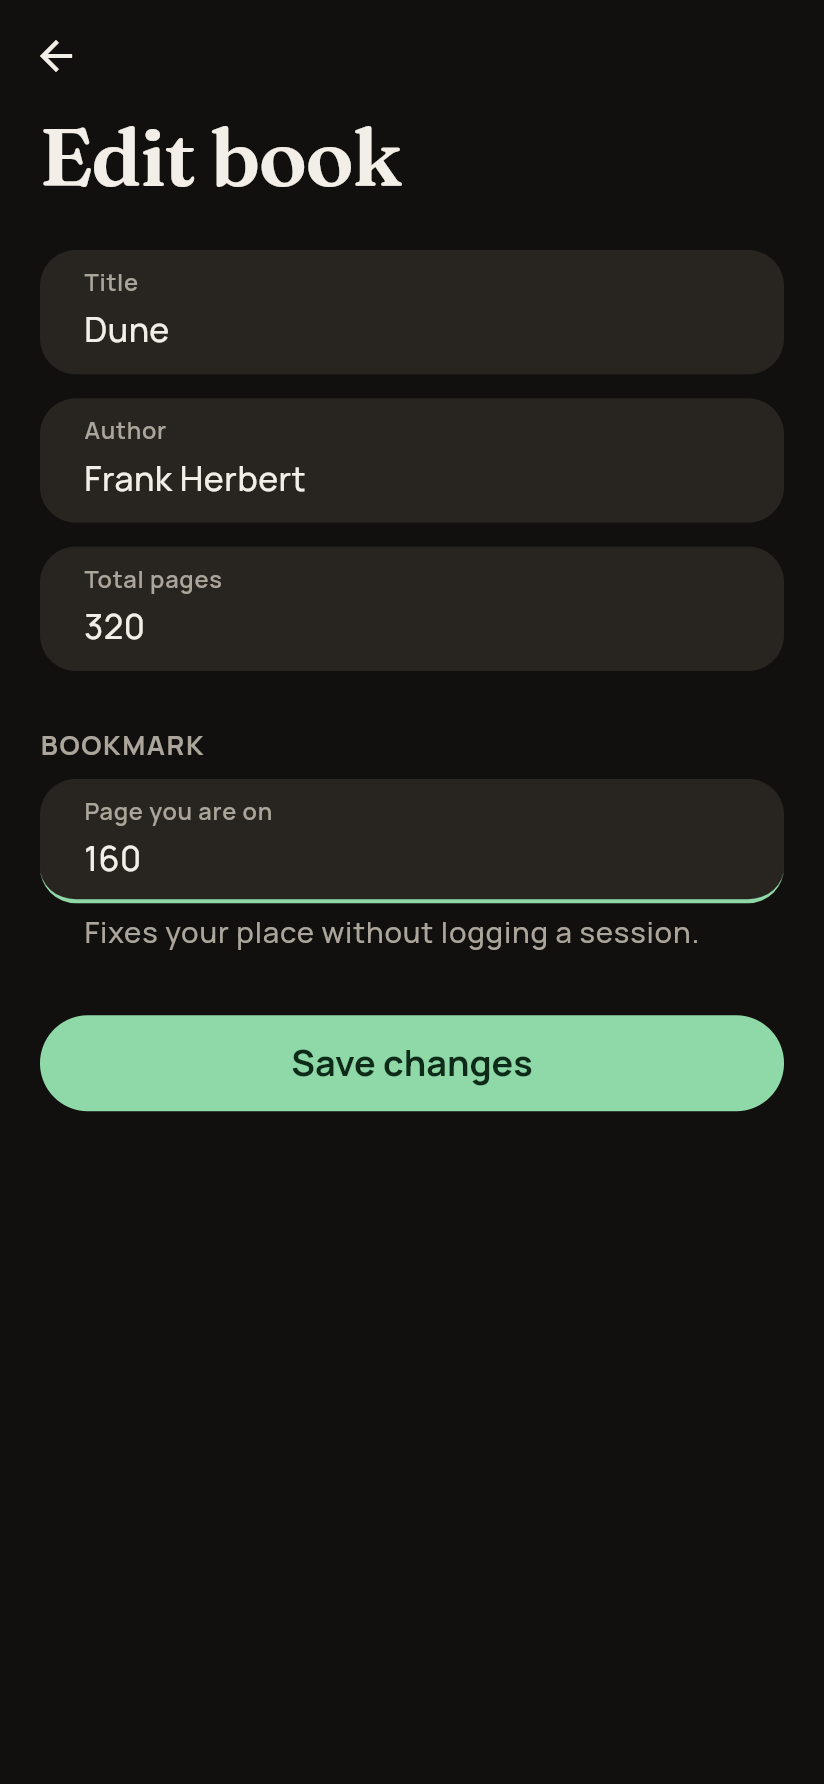
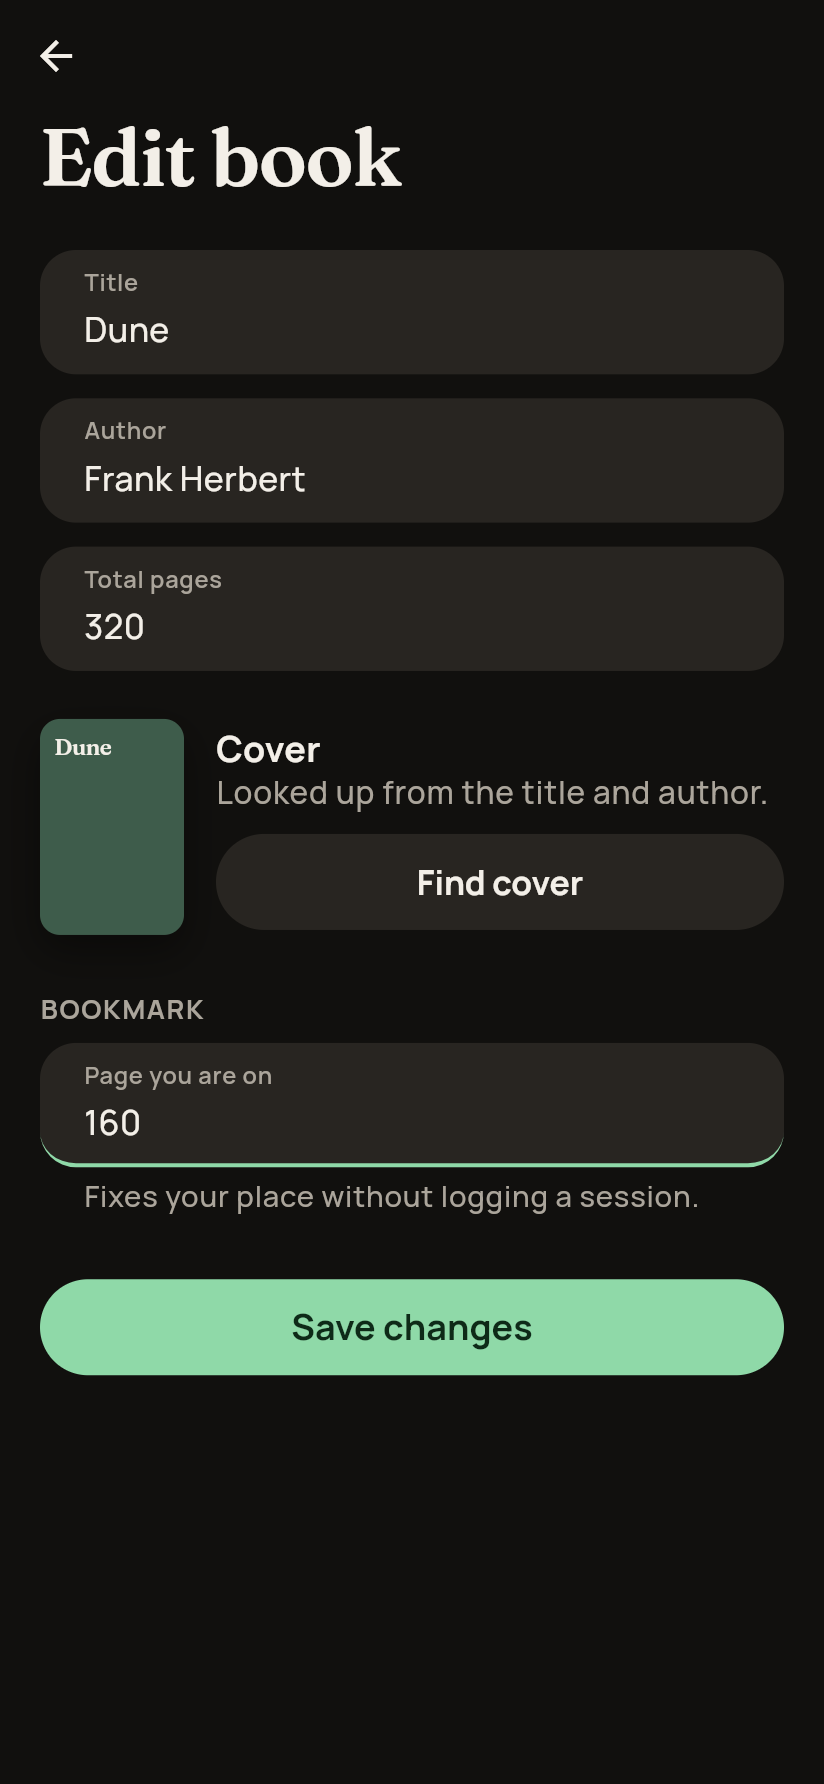
feat: implement cover lookup service and integrate with book editing screens

diff --git a/lib/screens/edit_book.dart b/lib/screens/edit_book.dart
@@ -1,8 +1,10 @@
 import 'package:flutter/material.dart';
 import 'package:lumina/models/books.dart';
+import 'package:lumina/services/cover_services.dart';
 import 'package:lumina/services/database_services.dart';
 import 'package:lumina/services/home_widget_service.dart';
 import 'package:lumina/theme.dart';
+import 'package:lumina/widgets/book_cover.dart';
 import 'package:lumina/widgets/section_header.dart';
 
 class EditBook extends StatefulWidget {
@@ -22,6 +24,8 @@ class _EditBookState extends State<EditBook> {
   final TextEditingController _pagesController = TextEditingController();
   final TextEditingController _bookmarkController = TextEditingController();
   bool _loaded = false;
+  String _coverUrl = '';
+  bool _isFetchingCover = false;
 
   TextStyle? get _fieldTextStyle => Theme.of(context).textTheme.bodyMedium
       ?.copyWith(color: LuminaColors.white, fontWeight: FontWeight.w500);
@@ -43,8 +47,45 @@ class _EditBookState extends State<EditBook> {
       _authorController.text = book.author;
       _pagesController.text = '${book.totalPages}';
       _bookmarkController.text = '$page';
+      _coverUrl = book.coverUrl;
       _loaded = true;
     });
+  }
+
+  Future<void> _findCover() async {
+    if (_isFetchingCover) {
+      return;
+    }
+    setState(() {
+      _isFetchingCover = true;
+    });
+    String? message;
+    try {
+      final String? cover = await CoverServices.instance.findCover(
+        _titleController.text,
+        _authorController.text,
+      );
+      if (cover == null) {
+        message = 'No cover found for that title.';
+      } else if (mounted) {
+        setState(() {
+          _coverUrl = cover;
+        });
+      }
+    } catch (error) {
+      message = 'Could not reach the cover service. Check your connection.';
+    }
+    if (!mounted) {
+      return;
+    }
+    setState(() {
+      _isFetchingCover = false;
+    });
+    if (message != null) {
+      ScaffoldMessenger.of(
+        context,
+      ).showSnackBar(SnackBar(content: Text(message)));
+    }
   }
 
   Future<void> _save() async {
@@ -55,6 +96,7 @@ class _EditBookState extends State<EditBook> {
       'title': _titleController.text.trim(),
       'author': _authorController.text.trim(),
       'totalPages': int.parse(_pagesController.text.trim()),
+      'coverUrl': _coverUrl,
     });
     await _databaseServices.setBookmark(
       widget.id,
@@ -123,6 +165,38 @@ class _EditBookState extends State<EditBook> {
                             }
                             return null;
                           },
+                        ),
+                        const SizedBox(height: 24),
+                        Row(
+                          children: [
+                            BookCover(
+                              coverUrl: _coverUrl,
+                              title: _titleController.text,
+                              width: 72,
+                            ),
+                            const SizedBox(width: 16),
+                            Expanded(
+                              child: Column(
+                                crossAxisAlignment: CrossAxisAlignment.start,
+                                children: [
+                                  Text('Cover', style: textTheme.titleMedium),
+                                  Text(
+                                    'Looked up from the title and author.',
+                                    style: textTheme.bodySmall,
+                                  ),
+                                  const SizedBox(height: 10),
+                                  OutlinedButton(
+                                    onPressed: _findCover,
+                                    child: Text(
+                                      _isFetchingCover
+                                          ? 'Finding cover...'
+                                          : 'Find cover',
+                                    ),
+                                  ),
+                                ],
+                              ),
+                            ),
+                          ],
                         ),
                         const SizedBox(height: 28),
                         const SectionHeader(label: 'Bookmark'),

diff --git a/lib/screens/add_books.dart b/lib/screens/add_books.dart
@@ -2,7 +2,7 @@ import 'package:flutter/material.dart';
 import 'package:go_router/go_router.dart';
 import 'package:lumina/services/database_services.dart';
 import 'package:lumina/theme.dart';
-import 'package:dio/dio.dart';
+import 'package:lumina/services/cover_services.dart';
 
 class Addbooks extends StatefulWidget {
   const Addbooks({super.key});
@@ -12,7 +12,6 @@ class Addbooks extends StatefulWidget {
 }
 
 class _AddbooksState extends State<Addbooks> {
-  final dio = Dio();
   final _formKey = GlobalKey<FormState>();
   final DatabaseServices _databaseServices = DatabaseServices.instance;
   final TextEditingController _titleController = TextEditingController();
@@ -28,58 +27,49 @@ class _AddbooksState extends State<Addbooks> {
     if (_isFetchingCover) {
       return;
     }
-    if (mounted) {
-      WidgetsBinding.instance.addPostFrameCallback((_) {
-        if (!mounted) {
-          return;
-        }
-        setState(() {
-          _isFetchingCover = true;
-        });
-      });
+    if (_titleController.text.trim().isEmpty) {
+      _showMessage('Type the title first.');
+      return;
     }
+    setState(() {
+      _isFetchingCover = true;
+    });
     try {
-      debugPrint('fetchCover called');
-      final response = await dio.get(
-        'https://bookcover.longitood.com/bookcover',
-        queryParameters: {
-          'book_title': _titleController.text.trim(),
-          'author_name': _authorController.text.trim(),
-          'size': 'large',
-        },
+      final String? cover = await CoverServices.instance.findCover(
+        _titleController.text,
+        _authorController.text,
       );
-      debugPrint('status: ${response.statusCode}');
-      debugPrint('data: ${response.data}');
-      if (response.data['url'] != null) {
-        if (mounted) {
-          WidgetsBinding.instance.addPostFrameCallback((_) {
-            if (mounted) {
-              setState(() {
-                _coverUrl = response.data['url'].toString();
-              });
-            }
-          });
-        }
-      } else {
-        debugPrint('Cover URL not found in response');
+      if (!mounted) {
+        return;
       }
-    } on DioException catch (e) {
-      debugPrint('Dio error: ${e.message}');
-      debugPrint('response: ${e.response?.statusCode} ${e.response?.data}');
+      if (cover == null) {
+        _showMessage(
+          'No cover found for that title. The book will get a coloured cover.',
+        );
+      } else {
+        setState(() {
+          _coverUrl = cover;
+        });
+      }
     } catch (e) {
-      debugPrint('Unexpected error: $e');
+      debugPrint('Cover lookup failed: $e');
+      _showMessage('Could not reach the cover service. Check your connection.');
     } finally {
       if (mounted) {
-        WidgetsBinding.instance.addPostFrameCallback((_) {
-          if (!mounted) {
-            return;
-          }
-          setState(() {
-            _isFetchingCover = false;
-          });
+        setState(() {
+          _isFetchingCover = false;
         });
       }
     }
+  }
+
+  void _showMessage(String message) {
+    if (!mounted) {
+      return;
+    }
+    ScaffoldMessenger.of(
+      context,
+    ).showSnackBar(SnackBar(content: Text(message)));
   }
 
   @override
@@ -87,7 +77,6 @@ class _AddbooksState extends State<Addbooks> {
     _titleController.dispose();
     _authorController.dispose();
     _pagesController.dispose();
-    dio.close();
     super.dispose();
   }
 

diff --git a/lib/services/cover_services.dart b/lib/services/cover_services.dart
@@ -1,0 +1,65 @@
+import 'package:dio/dio.dart';
+
+// Looks up a book's cover on Open Library (openlibrary.org), which is free
+// and needs no account.
+class CoverServices {
+  static final CoverServices instance = CoverServices._constructor();
+
+  CoverServices._constructor();
+
+  final Dio _dio = Dio(
+    BaseOptions(
+      connectTimeout: const Duration(seconds: 10),
+      receiveTimeout: const Duration(seconds: 15),
+    ),
+  );
+
+  // Returns the cover's address, or null when no edition has one.
+  Future<String?> findCover(String title, String author) async {
+    for (final String variant in titleVariants(title)) {
+      for (final String? byAuthor in <String?>[author.trim(), null]) {
+        if (byAuthor != null && byAuthor.isEmpty) {
+          continue;
+        }
+        final Response<dynamic> response = await _dio.get<dynamic>(
+          'https://openlibrary.org/search.json',
+          queryParameters: <String, dynamic>{
+            'title': variant,
+            'author': ?byAuthor,
+            'fields': 'cover_i',
+            'limit': 5,
+          },
+        );
+        final String? cover = coverFromSearch(response.data);
+        if (cover != null) {
+          return cover;
+        }
+      }
+    }
+    return null;
+  }
+
+  // The full title first, then without its subtitle, which catalogues often
+  // leave out ("Ancient Philosophy: A New History..." -> "Ancient Philosophy").
+  static List<String> titleVariants(String title) {
+    final String full = title.trim();
+    final String short = full.split(RegExp(r'[:(\-–—]')).first.trim();
+    return <String>[
+      if (full.isNotEmpty) full,
+      if (short.isNotEmpty && short != full) short,
+    ];
+  }
+
+  // The first result that has a cover image.
+  static String? coverFromSearch(dynamic data) {
+    if (data is! Map || data['docs'] is! List) {
+      return null;
+    }
+    for (final dynamic doc in data['docs'] as List<dynamic>) {
+      if (doc is Map && doc['cover_i'] is int) {
+        return 'https://covers.openlibrary.org/b/id/${doc['cover_i']}-L.jpg';
+      }
+    }
+    return null;
+  }
+}

diff --git a/test/habit_services_test.dart b/test/habit_services_test.dart
@@ -3,6 +3,7 @@ import 'dart:io';
 import 'package:flutter_test/flutter_test.dart';
 import 'package:lumina/research.dart';
 import 'package:lumina/services/backup_services.dart';
+import 'package:lumina/services/cover_services.dart';
 import 'package:lumina/services/database_services.dart';
 import 'package:lumina/services/habit_services.dart';
 import 'package:lumina/services/home_widget_service.dart';
@@ -732,6 +733,36 @@ void main() {
         BackupServices.instance.fileName(now: DateTime(2026, 3, 5)),
         'lumina-backup-2026-03-05.json',
       );
+    });
+  });
+
+  group('covers', () {
+    test('a title is also tried without its subtitle', () {
+      expect(
+        CoverServices.titleVariants(
+          'Ancient Philosophy: A New History of Western Philosophy',
+        ),
+        [
+          'Ancient Philosophy: A New History of Western Philosophy',
+          'Ancient Philosophy',
+        ],
+      );
+      expect(CoverServices.titleVariants(' Dune '), ['Dune']);
+      expect(CoverServices.titleVariants(''), isEmpty);
+    });
+
+    test('the first search result with a cover is used', () {
+      expect(
+        CoverServices.coverFromSearch({
+          'docs': [
+            {'title': 'no cover on this edition'},
+            {'cover_i': 1136939},
+          ],
+        }),
+        'https://covers.openlibrary.org/b/id/1136939-L.jpg',
+      );
+      expect(CoverServices.coverFromSearch({'docs': []}), isNull);
+      expect(CoverServices.coverFromSearch('error code: 522'), isNull);
     });
   });
 

diff --git a/lib/screens/today.dart b/lib/screens/today.dart
@@ -356,7 +356,12 @@ class _BookCard extends StatelessWidget {
             const SizedBox(height: 16),
             Container(
               width: double.infinity,
-              padding: const EdgeInsets.fromLTRB(16, 8, 6, 16).copyWith(right: 16),
+              padding: const EdgeInsets.fromLTRB(
+                16,
+                8,
+                6,
+                16,
+              ).copyWith(right: 16),
               decoration: BoxDecoration(
                 color: LuminaColors.tint(LuminaColors.recall),
                 borderRadius: BorderRadius.circular(18),

diff --git a/integration_test/habit_flow_test.dart b/integration_test/habit_flow_test.dart
@@ -582,7 +582,9 @@ void main() {
       find.widgetWithText(TextFormField, 'Page you are on'),
       '160',
     );
+    expect(find.text('Find cover'), findsOneWidget);
     await screenshot(tester, '28-edit-book');
+    await tester.ensureVisible(find.text('Save changes'));
     await tester.tap(find.text('Save changes'));
     await settle(tester);
 

diff --git a/docs/testing.md b/docs/testing.md
@@ -5,7 +5,7 @@ Every UI test below drives the real app on Linux at phone size (412 × 892) agai
 ## Running the tests
 
 ```bash
-# Logic: streaks, freezes, repair, migration, reminders, backup, research entries (38 tests, about 1 second)
+# Logic: streaks, freezes, repair, migration, reminders, backup, research entries (40 tests, about 1 second)
 flutter test
 
 # UI flows, one or more screenshots per test (18 tests, 3 to 5 minutes, needs a display)
@@ -259,5 +259,7 @@ With two books in progress, the most recent is the main card and the other appea
 | backup | a file that is not a backup is refused and changes nothing | Random files, other apps' files and backups from a newer version are rejected |
 | backup | a backup with a broken row restores nothing | A damaged file rolls back completely instead of half-restoring |
 | backup | the file is named by date | `lumina-backup-2026-03-05.json` |
+| covers | a title is also tried without its subtitle | "Ancient Philosophy: A New History..." is also searched as "Ancient Philosophy" |
+| covers | the first search result with a cover is used | Editions without a cover are skipped; an error page gives no cover instead of a crash |
 | research | every why chip in the app points at a real entry | No "Why?" chip can open an empty sheet |
 | research | every entry cites a source or says it has none | No finding is shown without a citation or an explicit "no study" note |
